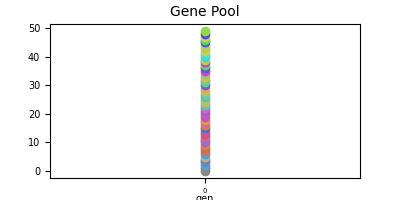
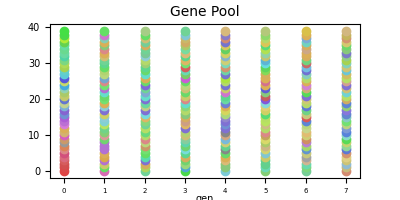
reduce complexity for performance

diff --git a/ML/Genetic_Neural_Network/classes.py b/ML/Genetic_Neural_Network/classes.py
@@ -4,15 +4,15 @@ import numpy as np
 import networkx as nx  # generating graphs
 from networkx.drawing.nx_agraph import graphviz_layout
 import matplotlib.pyplot as plt  # visualizing graphs
-import matplotlib.ticker as plticker
-from matplotlib.backends.backend_tkagg import FigureCanvasTkAgg
-from matplotlib.figure import Figure
 import PIL  # image processing
 from hyperparams import *
-from utils import HSL2RGB
+from utils import HSL2RGB, timeit
+import cProfile
 
 
 def sigmoid(x: float) -> float:
+    if abs(x) > 500:
+        print(x)
     return 1 / (1 + np.exp(-x))
 
 def sigmoid_np(x: float) -> float:
@@ -138,31 +138,31 @@ def oscillator(entity) -> float:
 
 
 def move_n(neuron):
-    if neuron.value >= 0.6:
+    if neuron.value >= 0.25:
         neuron.master.entity.move_y(-neuron.value * K_VELOCITY)
 
 def move_s(neuron):
-    if neuron.value >= 0.6:
+    if neuron.value >= 0.25:
         neuron.master.entity.move_y(neuron.value * K_VELOCITY)
 
 def move_e(neuron):
-    if neuron.value >= 0.6:
+    if neuron.value >= 0.25:
         neuron.master.entity.move_x(neuron.value * K_VELOCITY)
 
 def move_w(neuron):
-    if neuron.value >= 0.6:
+    if neuron.value >= 0.25:
         neuron.master.entity.move_x(-neuron.value * K_VELOCITY)
 
 def move_hrz(neuron):
-    if neuron.value <= 0.25:
+    if neuron.value <= -0.25:
         neuron.master.entity.move_x(-(1.0 - 2*neuron.value) * K_VELOCITY)
-    elif neuron.value >= 0.75:
+    elif neuron.value >= 0.25:
         neuron.master.entity.move_x((2*neuron.value - 1.0) * K_VELOCITY)
 
 def move_vrt(neuron):
-    if neuron.value <= 0.25:
+    if neuron.value <= -0.25:
         neuron.master.entity.move_y(-(1.0 - 2*neuron.value) * K_VELOCITY)
-    elif neuron.value >= 0.75:
+    elif neuron.value >= 0.25:
         neuron.master.entity.move_y((2*neuron.value - 1.0) * K_VELOCITY)
 
 _move_ne = lambda neuron: (move_n(neuron), move_e(neuron))[0]
@@ -171,28 +171,28 @@ _move_se = lambda neuron: (move_s(neuron), move_e(neuron))[0]
 _move_sw = lambda neuron: (move_s(neuron), move_w(neuron))[0]
 
 def move_fwd(neuron):
-    if neuron.value >= 0.6:
+    if neuron.value >= 0.25:
         move_list = [move_n, _move_ne, move_e, _move_se, move_s, _move_sw, move_w, _move_nw]
         move_list[neuron.master.entity.direction](neuron)
 
 def rotate(neuron):
-    if 0.3 < neuron.value < 0.7:
+    if -0.4 < neuron.value < 0.4:
         return
-    if neuron.value <= 0.075:
+    if neuron.value <= -0.85:
         neuron.master.entity.direction = (neuron.master.entity.direction  - 2) % 8
         return
-    if neuron.value <= 0.3:
+    if neuron.value <= -0.4:
         neuron.master.entity.direction = (neuron.master.entity.direction  - 1) % 8
         return
-    if neuron.value >= 0.925:
+    if neuron.value >= 0.85:
         neuron.master.entity.direction = (neuron.master.entity.direction  + 2) % 8
         return
-    if neuron.value >= 0.7:
+    if neuron.value >= 0.4:
         neuron.master.entity.direction = (neuron.master.entity.direction  + 1) % 8
         return
     
 def set_freq(neuron):
-    if neuron.value < 0.4:
+    if neuron.value < 0.2:
         return
     neuron.master.entity.freq *= np.float_power(1.5,  (neuron.value - 0.7)/0.3)
 
@@ -238,8 +238,8 @@ class OutputNeuron(Neuron):
 
 
 InputNeurons = [
-    InputNeuron(None, (0,0), 0.0, null, "0"),
-    InputNeuron(None, (0,1), 0.0, llun, "1"),
+    # InputNeuron(None, (0,0), 0.0, null, "0"),
+    # InputNeuron(None, (0,1), 0.0, llun, "1"),
     InputNeuron(None, (0,2), 0.0, x, "x"),
     InputNeuron(None, (0,3), 0.0, y, "y"),
     InputNeuron(None, (0,4), 0.0, dist_n, "dist_n"),
@@ -247,6 +247,8 @@ InputNeurons = [
     InputNeuron(None, (0,6), 0.0, dist_e, "dist_e"),
     InputNeuron(None, (0,7), 0.0, dist_w, "dist_w"),
     InputNeuron(None, (0,8), 0.0, dist_fwd, "dist_fwd"),
+]
+'''
     InputNeuron(None, (0,9), 0.0, nearest_d, "nearest_d"),
     InputNeuron(None, (0,10), 0.0, nearest_dx, "nearest_dx"),
     InputNeuron(None, (0,11), 0.0, nearest_dy, "nearest_dy"),
@@ -254,33 +256,32 @@ InputNeurons = [
     InputNeuron(None, (0,13), 0.0, elapsed_t, "elapsed_t"),
     InputNeuron(None, (0,14), 0.0, population, "population"),
     InputNeuron(None, (0,15), 0.0, oscillator, "oscillator")            
-]  # 미리 지정한 InputNeuron 들의 list
+]'''  # 미리 지정한 InputNeuron 들의 list
 
 OutputNeurons = [
-    OutputNeuron(None, (BRAIN_DEPTH + 1,0), 0.0, null, "null"), 
+    # OutputNeuron(None, (BRAIN_DEPTH + 1,0), 0.0, null, "null"),
+    OutputNeuron(None, (BRAIN_DEPTH + 1,5), 0.0, move_hrz, "move_hrz"), 
+    OutputNeuron(None, (BRAIN_DEPTH + 1,6), 0.0, move_vrt, "move_vrt"), 
+    OutputNeuron(None, (BRAIN_DEPTH + 1,7), 0.0, move_fwd, "move_fwd"), 
+    OutputNeuron(None, (BRAIN_DEPTH + 1,8), 0.0, rotate, "rotate"),
+]
+'''
     OutputNeuron(None, (BRAIN_DEPTH + 1,1), 0.0, move_n, "move_n"), 
     OutputNeuron(None, (BRAIN_DEPTH + 1,2), 0.0, move_s, "move_s"), 
     OutputNeuron(None, (BRAIN_DEPTH + 1,3), 0.0, move_e, "move_e"), 
     OutputNeuron(None, (BRAIN_DEPTH + 1,4), 0.0, move_w, "move_w"), 
-    OutputNeuron(None, (BRAIN_DEPTH + 1,5), 0.0, move_hrz, "move_hrz"), 
-    OutputNeuron(None, (BRAIN_DEPTH + 1,6), 0.0, move_vrt, "move_vrt"), 
-    OutputNeuron(None, (BRAIN_DEPTH + 1,7), 0.0, move_fwd, "move_fwd"), 
-    OutputNeuron(None, (BRAIN_DEPTH + 1,8), 0.0, rotate, "rotate"), 
     OutputNeuron(None, (BRAIN_DEPTH + 1,9), 0.0, set_freq, "set_freq"),
-]
-'''
     OutputNeuron(None, (BRAIN_DEPTH + 1,9), 0.0, null), 
     OutputNeuron(None, (BRAIN_DEPTH + 1,10), 0.0, null), 
     OutputNeuron(None, (BRAIN_DEPTH + 1,11), 0.0, null), 
     OutputNeuron(None, (BRAIN_DEPTH + 1,12), 0.0, null), 
     OutputNeuron(None, (BRAIN_DEPTH + 1,13), 0.0, null), 
     OutputNeuron(None, (BRAIN_DEPTH + 1,14), 0.0, null), 
-    OutputNeuron(None, (BRAIN_DEPTH + 1,15), 0.0, null), '''
-#] # 미리 지정한 OutputNeuron 들의 list
+    OutputNeuron(None, (BRAIN_DEPTH + 1,15), 0.0, null),
+]''' # 미리 지정한 OutputNeuron 들의 list
 
 n_InputN = len(InputNeurons)
 n_OutputN = len(OutputNeurons)
-
 
 def interp_gene(network): 
     # set up the network using the gene
@@ -289,14 +290,14 @@ def interp_gene(network):
     d_op = {}
 
     for n in range(0, BRAIN_SIZE):
-        g = network.gene[6 * n: 6 * n + 6]
+        g = network.gene[5 * n: 5 * n + 5]
         g_t = int(g[0], 16) % (BRAIN_DEPTH + 3)
 
         if g_t > BRAIN_DEPTH + 1:
             continue
         g_so = int(g[1], 16)
         g_si = int(g[2], 16)
-        g_w = MAX_WEIGHT * (float(int(g[3:-1], 16)) - 127.5) / 127.5
+        g_w = MAX_WEIGHT * (float(int(g[3:], 16)) - 127.5) / 127.5
 
         if g_t == 0:
             # input -> hidden[0]
@@ -410,7 +411,7 @@ class Network:
                     sinc.value = sigmoid_np(sinc.value)
         # run output
         for out in self.output_neurons:
-            out.value = sigmoid(out.value)
+            out.value = sigmoid_np(out.value)
             out.act()
         # reset neurons
         for inns in self.inner_neurons:
@@ -474,7 +475,7 @@ def mutateGene(gene):
 def randGene():
     # generate random gene
     new_gene = ''
-    for i in range(6*BRAIN_SIZE):
+    for i in range(5 * BRAIN_SIZE):
         new_gene += format(rand.randint(0, 15), 'x')
     return new_gene
 
@@ -546,14 +547,13 @@ class Entity:
 
 if __name__ == "__main__":
     print(randGene())
[1 lines of base64/hex data omitted]
+    gene1 = "e65007c1ad880afa293ff14d3096df5152b38b7b64ba0202d8ea025c30ea"
     '''
     gene1 = ""
     for i in range(8):
         gene1 += f"0" + hex(8+i)[2:]+ "0000"
     '''
     net1 = Network(None, N_PER_LAYER, BRAIN_DEPTH, gene1)
-    # net.run()
     fig = plt.figure(figsize=(4,2), dpi=200)
     ax = fig.add_subplot(1, 1, (1,1))
     net1.makeGraph(ax)

diff --git a/ML/Genetic_Neural_Network/colorPath.py b/ML/Genetic_Neural_Network/colorPath.py
@@ -3,6 +3,7 @@ from colormath.color_objects import LabColor, sRGBColor
 from colormath.color_diff import delta_e_cie1976, delta_e_cie1994, delta_e_cie2000, delta_e_cmc
 from colormath.color_conversions import convert_color
 import numpy
+from utils import timeit
 
 # patch discarded method asscalar of numpy, since color diff is dependent on this
 def patch_asscalar(a):
@@ -40,7 +41,8 @@ def dijkstra(graph, start):
     
     return distances
 
-def minimize_color_difference(colors, type="sRGB", color_difference=delta_e_cie2000):
+@timeit
+def minimize_color_difference(colors, type="sRGB", color_difference=delta_e_cie1994):
     dict_delta_es = {"deltaecie1976": delta_e_cie1976, 
                      "1976": delta_e_cie1976, 
                      "cie1976": delta_e_cie1976, 
@@ -61,11 +63,11 @@ def minimize_color_difference(colors, type="sRGB", color_difference=delta_e_cie2
     colors_cielab = [convert_color(sRGBColor(*color), LabColor) for color in colors]
     graph = build_color_graph(colors_cielab, color_difference)
     start = 0
-    min_k_dist = float('inf')
+    max_r_dist = -float('inf')
     for i, color in enumerate(colors):
-        k_dist = color[0]**2 + color[1]**2 + color[2]**2
-        if k_dist <  min_k_dist:
-            min_k_dist = k_dist
+        r_dist = color[0]**2 - color[1]**2 - color[2]**2
+        if r_dist >  max_r_dist:
+            max_r_dist = r_dist
             start = i
     new_graph = dijkstra(graph, start)
     sorted_graph = sorted(new_graph.items(), key = lambda item: item[1])

diff --git a/ML/Genetic_Neural_Network/Simulation.py b/ML/Genetic_Neural_Network/Simulation.py
@@ -4,8 +4,11 @@ from classes import *
 import platform
 from tkinter import *
 from tkinter import font as tkFont
-import multiprocess as mp
+import matplotlib.ticker as plticker
+from matplotlib.backends.backend_tkagg import FigureCanvasTkAgg
+from matplotlib.figure import Figure
 from utils import timeit
+import cProfile
 from colorPath import minimize_color_difference
 
 
@@ -176,7 +179,7 @@ class SimWindow(Frame):
                 colors = []
                 rand.shuffle(surviving_genes)
                 for i in range(INITIAL_GEN_POP):
-                    if i < 20:
+                    if i < 30:
                         new_genes.append(randGene())
                     else:
                         new_genes.append(mutateGene(surviving_genes[i % len(surviving_genes)]))

diff --git a/ML/Genetic_Neural_Network/utils.py b/ML/Genetic_Neural_Network/utils.py
@@ -9,7 +9,7 @@ def timeit(func):
         result = func(*args, **kwargs)
         end_time = time.perf_counter()
         total_time = end_time - start_time
-        print(f'Function {func.__name__}({str([str(arg) for arg in args])[1:-1]} {str(kwargs)[1:-1]}) Took {total_time:.4f} seconds')
+        print(f"Function '{func.__name__}' Took {total_time:.4f} seconds")
         return result
     return timeit_wrapper
 
